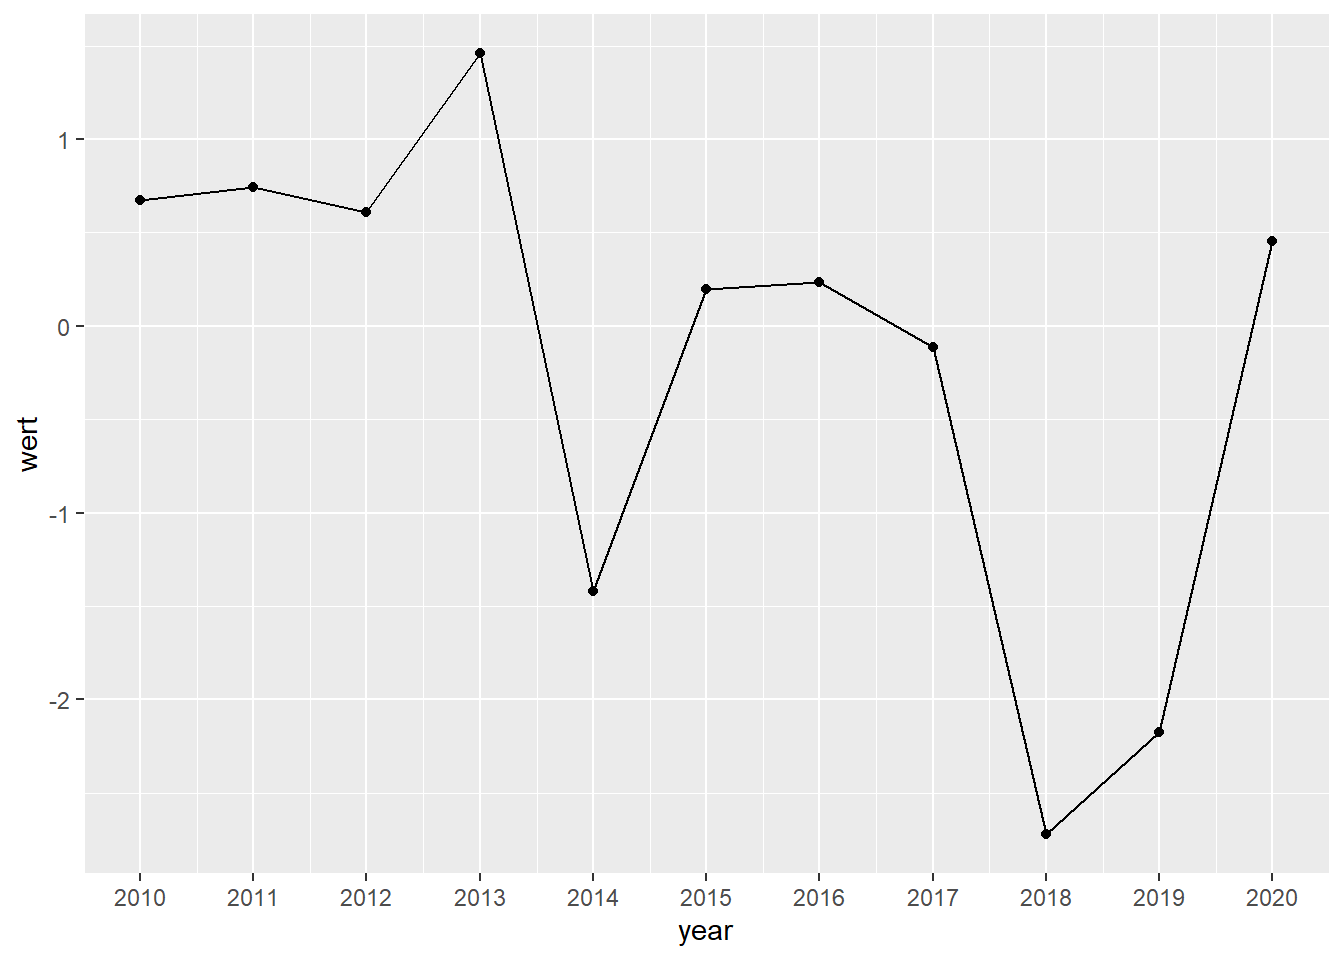
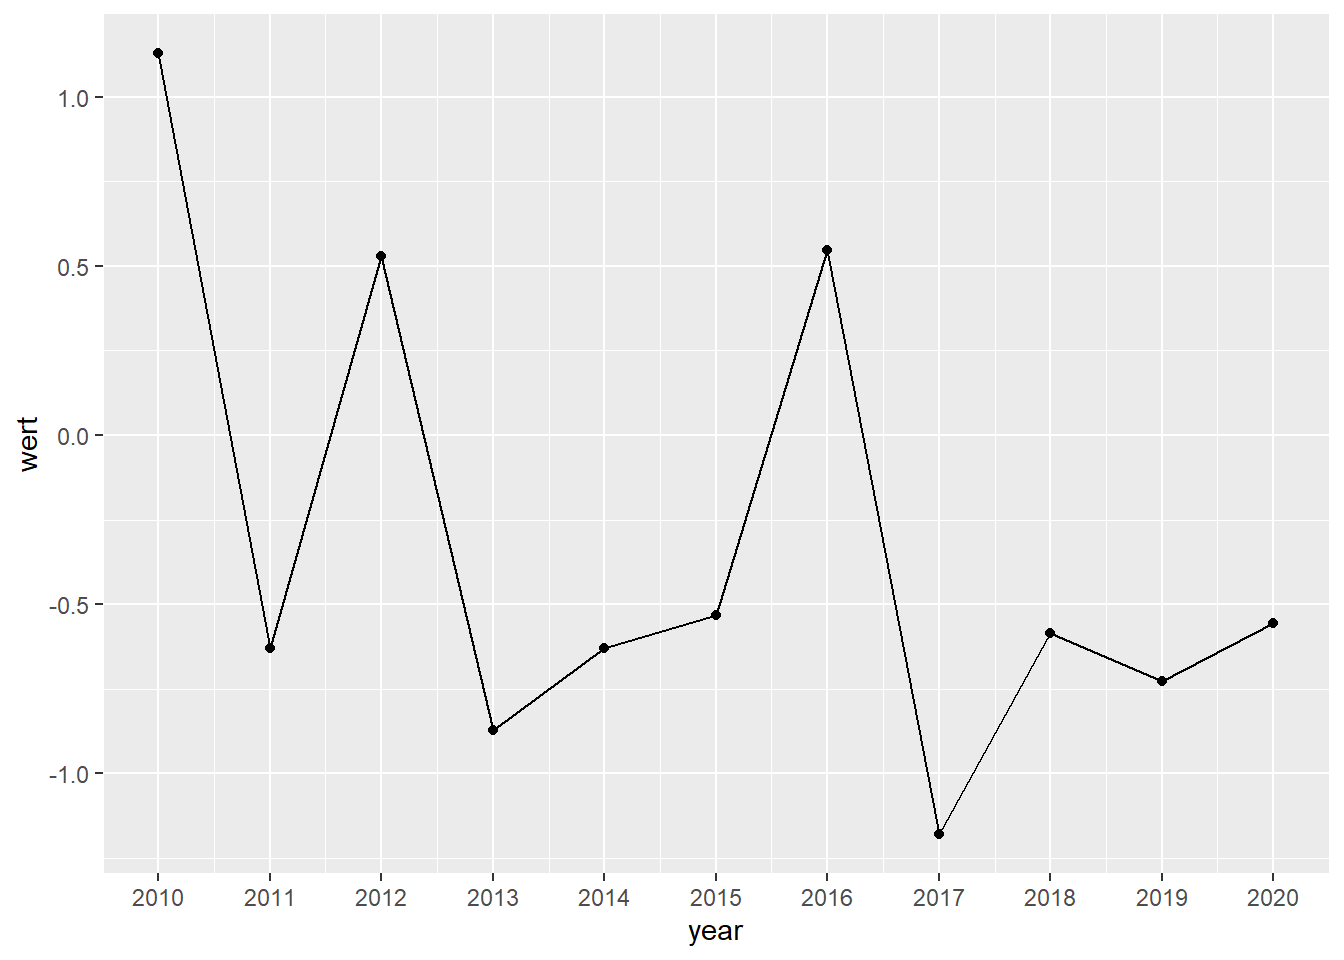
FAQs with echo

diff --git a/docs/FAQs.html b/docs/FAQs.html
@@ -394,6 +394,10 @@ div.tocify {
 <h4>Das Problem:</h4>
 <p>Nach dem Einlesen, können die Daten nicht mit den üblichen Befehlen
 bearbeitet werden:</p>
+<pre class="r"><code>library(tidyverse) 
+library(tidytuesdayR)
+
+daten &lt;- tidytuesdayR::tt_load(2022, week = 2)</code></pre>
 <pre><code>## 
 ##  Downloading file 1 of 2: `colony.csv`
 ##  Downloading file 2 of 2: `stressor.csv`</code></pre>
@@ -402,7 +406,12 @@ bearbeitet werden:</p>
 <h4>Die Lösung</h4>
 <p>TidyTuesday-Daten bestehen häufig aus mehreren Datensätzen. Mit dem
 <code>$</code>-Operator können diese extrahiert werden:</p>
+<pre class="r"><code>colony &lt;- daten$colony
+
+stressor &lt;- daten$stressor</code></pre>
 <p>Dann können die Objekte wie gewohnt bearbeitet werden:</p>
+<pre class="r"><code>colony |&gt; 
+          filter(colony_lost &gt; 1000)</code></pre>
 <pre><code>## # A tibble: 851 x 10
 ##     year months        state     colony_n colony_max colony_lost colony_lost_pct
 ##    &lt;dbl&gt; &lt;chr&gt;         &lt;chr&gt;        &lt;dbl&gt;      &lt;dbl&gt;       &lt;dbl&gt;           &lt;dbl&gt;
@@ -421,6 +430,7 @@ bearbeitet werden:</p>
 <p>Im Allgemeinen können Informationen zu den TidyTuesday-Daten im
 <em>Hilfefenster</em> angezeigt werden, wenn der Name des Objekts, in
 dem die Daten zwischengespeichert wurden, ausgeführt wird. Hier:</p>
+<pre class="r"><code>daten</code></pre>
 </div>
 </div>
 <div
@@ -433,21 +443,38 @@ angezeigt</h3>
 <p>In ggplot werden Zahlen auf den Achsen standardmäßig in der
 wissenschaftlichen Notation (scientific notation) dargestellt, wenn die
 Zahlen groß oder klein werden:</p>
+<pre class="r"><code>library(tidyverse)
+
+# Beispieldaten
+(daten &lt;- tibble(x = 1:2, y = c(0, 400000))
+          )</code></pre>
 <pre><code>## # A tibble: 2 x 2
 ##       x      y
 ##   &lt;int&gt;  &lt;dbl&gt;
 ## 1     1      0
 ## 2     2 400000</code></pre>
+<pre class="r"><code># Problemplot
+daten |&gt; 
+          ggplot(aes(x = x, y = y)) +
+          geom_point()</code></pre>
 <p><img src="FAQs_files/figure-html/unnamed-chunk-5-1.png" width="672" /></p>
 </div>
 <div id="die-lösung-1" class="section level4">
 <h4>Die Lösung</h4>
 <p>Das Paket scales bietet eine Funktion <code>number_format()</code>,
 mit der dieses Verhalten verändert werden kann:</p>
+<pre class="r"><code>daten |&gt; 
+          ggplot(aes(x = x, y = y)) +
+          geom_point() +
+          scale_y_continuous(labels = scales::number_format()) </code></pre>
 <p><img src="FAQs_files/figure-html/unnamed-chunk-6-1.png" width="672" /></p>
 <p>Zusätzlich kann bei Bedarf das im Deutschen gebräuchliche
 Tausendertrennzeichen und das Komma als Dezimaltrennzeichen festgesetzt
 werden:</p>
+<pre class="r"><code>daten |&gt; 
+          ggplot(aes(x = x, y = y)) +
+          geom_point() +
+          scale_y_continuous(labels = scales::number_format(big.mark = &quot;.&quot;, decimal.mark = &quot;,&quot;))</code></pre>
 <p><img src="FAQs_files/figure-html/unnamed-chunk-7-1.png" width="672" /></p>
 </div>
 </div>
@@ -460,30 +487,55 @@ class="section level3">
 diese als Zahlen behandelt, was zur unerwünschten Darstellung von
 Kommastallen und “krummen” Jahreszahlen führen kann. Außerdem werden in
 der Beschriftung dann Jahre ausgelassen:</p>
+<pre class="r"><code>library(tidyverse)
+
+#Daten generieren
+(daten &lt;- tibble(year = 2010:2020, 
+                 wert = rnorm(n = length(year), mean = 0, sd = 1)
+                 )
+)</code></pre>
 <pre><code>## # A tibble: 11 x 2
 ##     year   wert
 ##    &lt;int&gt;  &lt;dbl&gt;
-##  1  2010  0.676
-##  2  2011  0.744
-##  3  2012  0.608
-##  4  2013  1.46 
-##  5  2014 -1.42 
-##  6  2015  0.199
-##  7  2016  0.233
-##  8  2017 -0.114
-##  9  2018 -2.72 
-## 10  2019 -2.17 
-## 11  2020  0.455</code></pre>
+##  1  2010  1.13 
+##  2  2011 -0.629
+##  3  2012  0.529
+##  4  2013 -0.873
+##  5  2014 -0.630
+##  6  2015 -0.532
+##  7  2016  0.548
+##  8  2017 -1.18 
+##  9  2018 -0.586
+## 10  2019 -0.727
+## 11  2020 -0.555</code></pre>
+<pre class="r"><code># Problemplot
+daten |&gt;
+          ggplot(aes(x = year, y = wert)) +
+          geom_line() +
+          geom_point()</code></pre>
 <p><img src="FAQs_files/figure-html/unnamed-chunk-8-1.png" width="672" /></p>
 </div>
 <div id="die-lösung-2" class="section level4">
 <h4>Die Lösung</h4>
 <p>Eine schnelle Lösung ist es, die Labels für die Jahre
 “hardzucoden”:</p>
+<pre class="r"><code>daten |&gt;
+          ggplot(aes(x = year, y = wert)) +
+          geom_line() +
+          geom_point() +
+          scale_x_continuous(breaks = 2010:2020)</code></pre>
 <p><img src="FAQs_files/figure-html/unnamed-chunk-9-1.png" width="672" /></p>
 <p>Eine allgemeingültigere Lösung ist es, die Jahreszahlen auch in R als
 Datum zu hinterlegen und die Darstellung auf den Achsen auf die Jahre zu
 beschränken. In diesem Beispiel führt dies zum gleichen Ergebnis:</p>
+<pre class="r"><code>daten |&gt;
+          mutate(year = paste0(year, &quot;-01-01&quot;)) |&gt; #Jahreszahl um Monat und Tag erweitern
+          mutate(year = as.Date(year)) |&gt; #als Datum definieren
+          ggplot(aes(x = year, y = wert)) +
+          geom_line() +
+          geom_point() +
+          scale_x_date(date_labels = &quot;%Y&quot;, #nur Jahreszahl anzeigen
+                       date_breaks = &quot;1 year&quot;) #Breaks zwischen den Jahren definieren</code></pre>
 <p><img src="FAQs_files/figure-html/unnamed-chunk-10-1.png" width="672" /></p>
 </div>
 </div>
